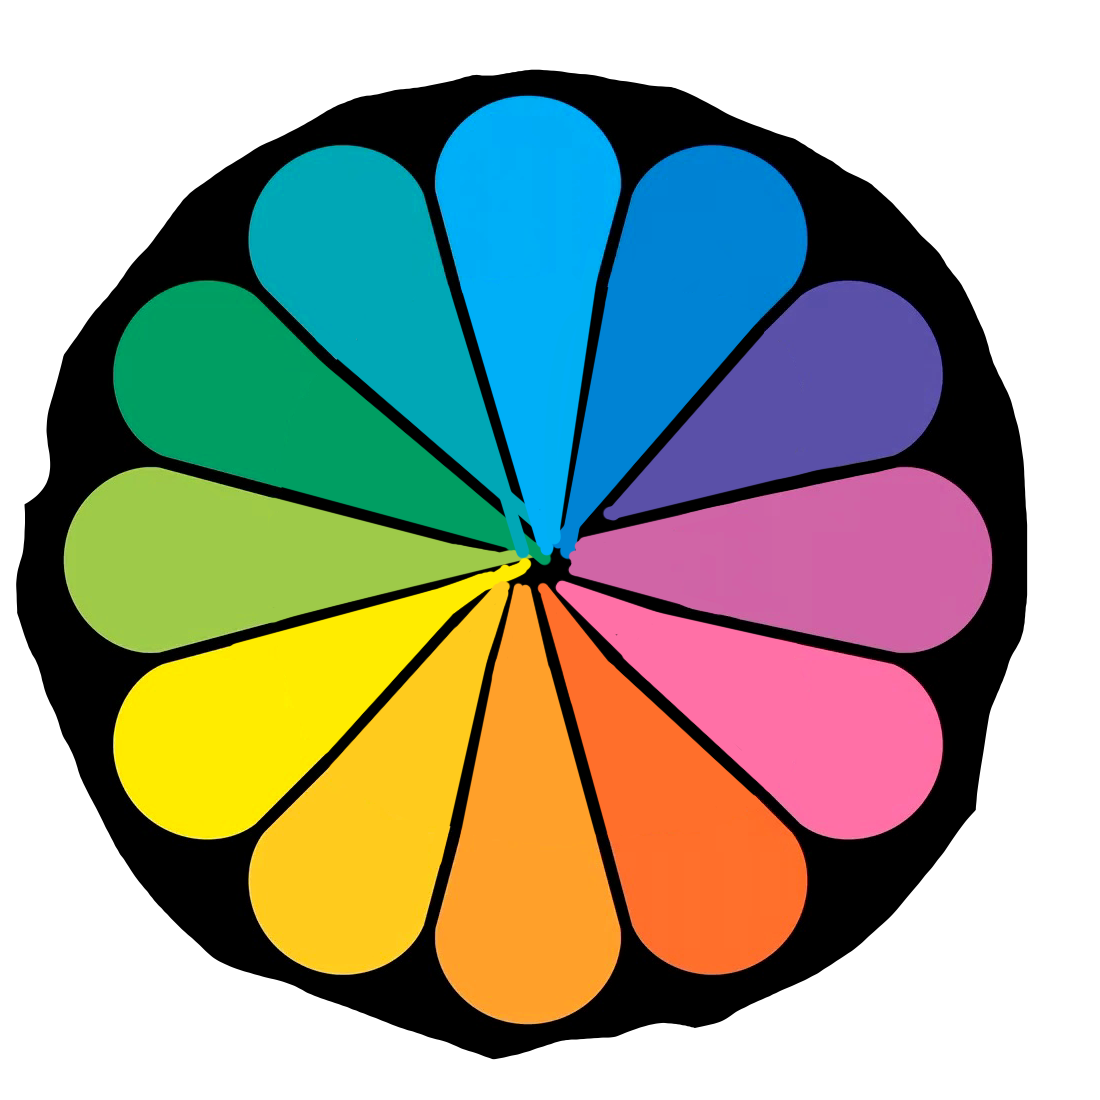
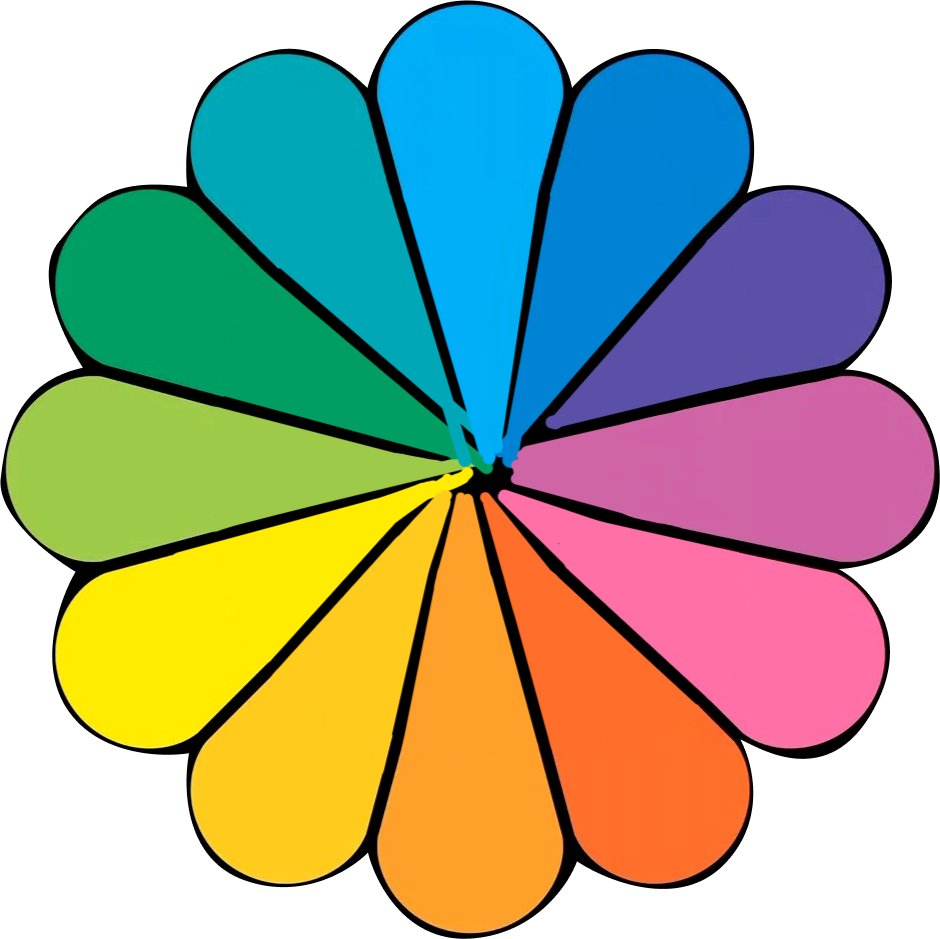
flower 이미지 누끼 작업 & 하트 거리조정

diff --git a/style.css b/style.css
@@ -37,7 +37,6 @@ div.face img {
   height: 100%;
 }
 div.roulet {
-  /* background-color: beige; */
   position: relative;
   margin: 0px auto;
   width: 700px;
@@ -45,10 +44,9 @@ div.roulet {
   display: flex;
   justify-content: center;
   align-items: center;
-  animation: flower-rotate 13s linear infinite;
+  animation: flower-rotate 50s reverse linear infinite;
 }
 .list-item {
-  /* background-color: aqua; */
   position: absolute;
   width: 600px;
   height: 600px;
@@ -60,53 +58,53 @@ div.roulet {
   width: 100px;
   height: 100px;
   top: 40%;
-  left: 40%;
+  left: 41%;
 }
 .list-item li img {
   width: 100%;
   height: 100%;
 }
 .list-item li:nth-child(1) {
-  transform: translate(0, -400px);
+  transform: translate(0, -420px);
 }
 .list-item li:nth-child(2) {
-  transform: translate(calc(400px * sin(30deg)), calc(400px * sin(-60deg)))
+  transform: translate(calc(420px * sin(30deg)), calc(420px * sin(-60deg)))
     rotate(30deg);
 }
 .list-item li:nth-child(3) {
-  transform: translate(calc(400px * sin(60deg)), calc(400px * sin(-30deg)))
+  transform: translate(calc(420px * sin(60deg)), calc(420px * sin(-30deg)))
     rotate(60deg);
 }
 .list-item li:nth-child(4) {
-  transform: translate(+400px, 0) rotate(90deg);
+  transform: translate(+420px, 0) rotate(90deg);
 }
 .list-item li:nth-child(5) {
-  transform: translate(calc(400px * sin(60deg)), calc(400px * sin(30deg)))
+  transform: translate(calc(420px * sin(60deg)), calc(420px * sin(30deg)))
     rotate(120deg);
 }
 .list-item li:nth-child(6) {
-  transform: translate(calc(400px * sin(30deg)), calc(400px * sin(60deg)))
+  transform: translate(calc(420px * sin(30deg)), calc(420px * sin(60deg)))
     rotate(150deg);
 }
 .list-item li:nth-child(7) {
-  transform: translate(0, +400px) rotate(180deg);
+  transform: translate(0, +420px) rotate(180deg);
 }
 .list-item li:nth-child(8) {
-  transform: translate(calc(400px * sin(-30deg)), calc(400px * sin(60deg)))
+  transform: translate(calc(420px * sin(-30deg)), calc(420px * sin(60deg)))
     rotate(210deg);
 }
 .list-item li:nth-child(9) {
-  transform: translate(calc(400px * sin(-60deg)), calc(400px * sin(30deg)))
+  transform: translate(calc(420px * sin(-60deg)), calc(420px * sin(30deg)))
     /* 이거 이미지가 틀어져있음 */ rotate(140deg);
 }
 .list-item li:nth-child(10) {
-  transform: translate(-400px, 0) rotate(270deg);
+  transform: translate(-420px, 0) rotate(270deg);
 }
 .list-item li:nth-child(11) {
-  transform: translate(calc(400px * sin(-60deg)), calc(400px * sin(-30deg)))
+  transform: translate(calc(420px * sin(-60deg)), calc(420px * sin(-30deg)))
     rotate(300deg);
 }
 .list-item li:nth-child(12) {
-  transform: translate(calc(400px * sin(-30deg)), calc(400px * sin(-60deg)))
+  transform: translate(calc(420px * sin(-30deg)), calc(420px * sin(-60deg)))
     rotate(330deg);
 }
